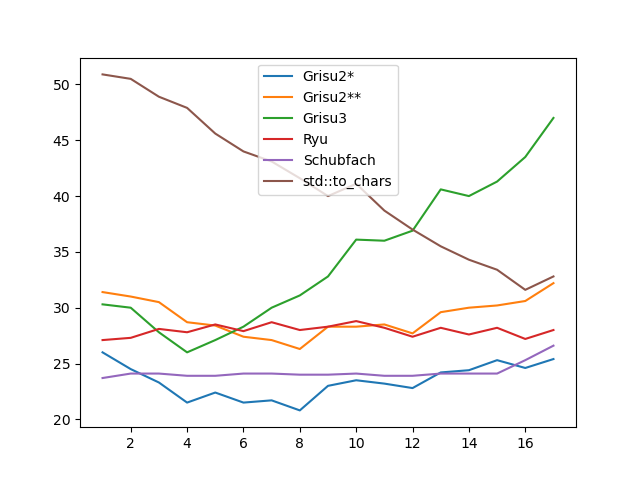
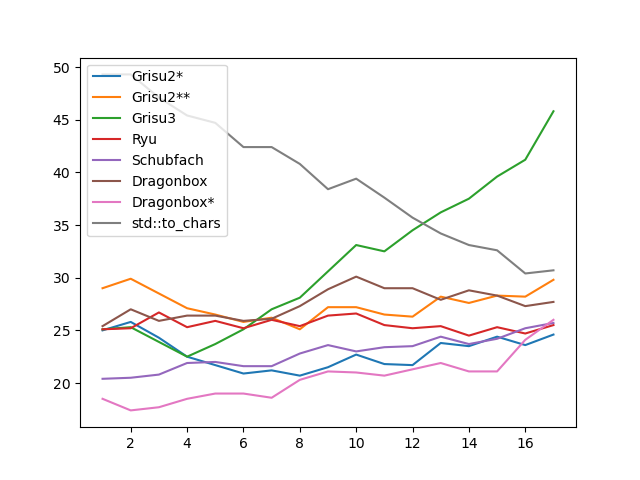
Update readme/benchmarks

diff --git a/README.md b/README.md
@@ -43,9 +43,15 @@ algorithm as described in
 
 The name of this algorithm "deliberately departs from a long lineage of fabulous drakes".
 
+Dragonbox
+--------------------------------------------------------------------------------
+
+Contains the reference implementation of Junekey Jeon's
+[Dragonbox](https://github.com/jk-jeon/dragonbox) algorithm.
+
 ---
 
-Grisu3, Ryu, and Schubfach are optimal, i.e. the output string
+Grisu3, Ryu, Schubfach, and Dragonbox are optimal, i.e. the output string
 1. rounds back to the input number when read in,
 2. is as short as possible,
 3. is as close to the input number as possible.
@@ -67,9 +73,14 @@ digits) and then read back in. The final timings were obtained using Google's
 benchmark library by running the different algorithms to convert the rounded
 numbers to decimal.
 
+![Benchmark](/resources/bench.png)
+
 `Grisu2*` is the Grisu2 implementation without the optional rounding step,
 `Grisu2**` includes the rounding step.
 
-![Benchmark](/resources/bench.png)
+`Dragonbox` is Junekey Jeon's [Dragonbox](https://github.com/jk-jeon/dragonbox)
+algorithm using the `to_chars` method provided along with the reference
+implementation. `Dragonbox*` uses the same algorithm to convert from binary
+to decimal, but uses a different formatting procedure.
 
 Benchmarks were run on an Intel Core i7-9750H, using Visual Studio 2019 16.6.2, Clang 10.0, 64-bit. Timings are in ns.
